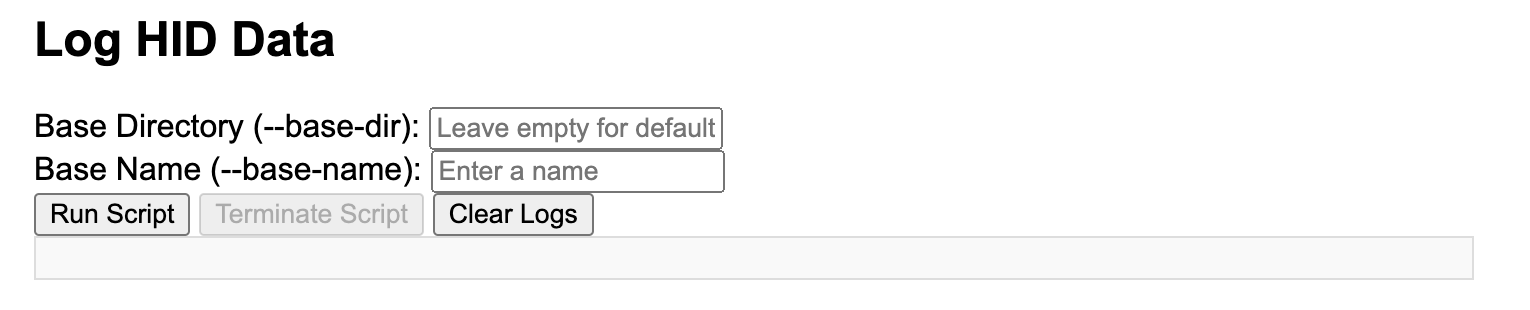
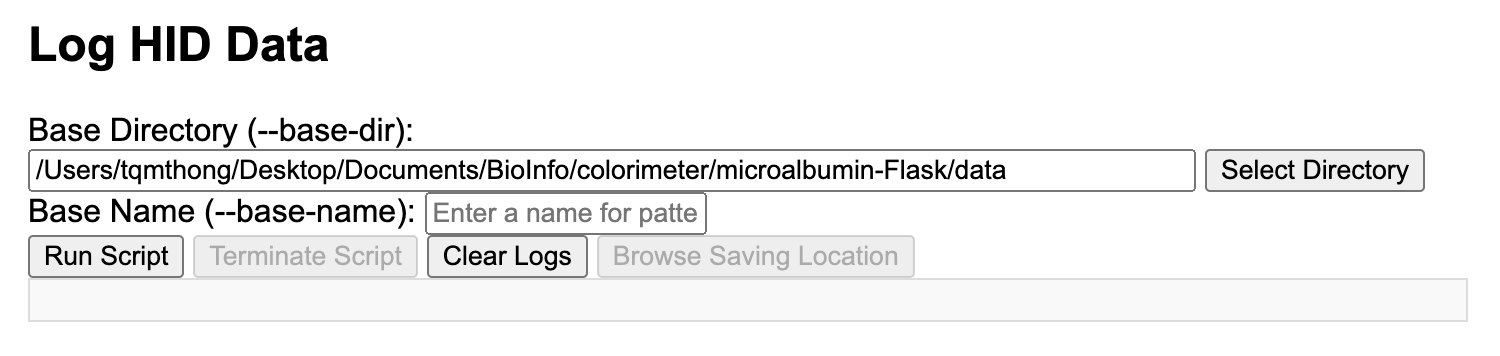
Update README

Changed region(s): [[0.0, 0.3194, 0.9813, 0.8129], [0.0, 0.0581, 0.2147, 0.2323]]

diff --git a/README.md b/README.md
@@ -9,17 +9,17 @@ This document provides instruction on deploying a web interface that helps visua
 
 ![](/images/browse.png)
 
-* **Display Range** Filter data by time range and unit (seconds, minutes, hours). Only latest `<time><unit>` data points will be displayed.
+* **Set measurement Modes** The Applicatiob has 3 modes: **kinetics**, **point**, **calibrate**
 
-![](/images/displayrange.png)
+* **Select type of Calibration** You can specify which calibration you're calculating for, either **kinetics** or **point**
 
-* **Log HID** Get data being sent from the **PyBadge** colorimeter. Specifiying location and file pattern name in `--base-dir` and `--base-name`. The logged file is saved at: `\log\script_logs.txt`
+* **Log HID** Get data being sent from the **PyBadge** colorimeter. Specifiying location and file pattern name in `--base-dir` and `--base-name`. The logged file is saved at: `\log\script_logs.txt`. Disabled in **calibrate** mode
 
 ![](/images/logHID.png)
 
-* **Window size** Specifies the number of data in a group to determine local slopes. Minimum is 3, maximum is half of data size in the browsing csv file.
+* **Standard lines** Choose standard line you'd like to derive concentration from measurements. Disabled in **calibrate** mode. You can read detailed description in each standard line json to understand the calculation methods.
 
-![](/images/window.png)
+![](/images/standardJSON.png)
 
 * **File Selection** When a directory with csv files is browsed, the list of selectable csv files are displayed under **File Selection** table. Currently, the feature only supports display data from **ONE** file at a time. Click **Select** to visualize the chosen csv, **Deselect** to turn the visualization off.
 
@@ -27,38 +27,82 @@ This document provides instruction on deploying a web interface that helps visua
 
 * **Data Display**:
 	- **Display Range** Modification in display range changes the displayed data and respective unit displayed on the plot. 
-	- **Split by Blanked** Seperate data points into 2 plots, *Blanked* and *Non-Blanked*, which is set by value of column ['Blanked'] in the browsed csv. [](/images/blank.png)
+	- **Split by Blanked** Seperate data points into 2 plots, *Blanked* and *Non-Blanked*, which is set by value of column ['Blanked'] in the browsed csv.
+
+	![](/images/blank.png)
+
 	- **Full Display** Enable, Disable graphics of ***Vmax***, ***Linear***, ***Sat*** lines. When it is checked and a csv file is being browsed, all data of that file will be shown and **Display Range** value should be disabled.
+	- In **kinetics** and **point**, displayed data should show Measurement values (i.e Absorbance agains Time) 
+
+	![](/images/meas.png)
+
+	- In **calibrate** mode, if selected calibration type is **kinetics**, you can select which of these quantity: Vmax (maximum reaction velocity throughout the process), Slope (average speed along reaction stage), Sat (Measured value at saturating point when no longer reactions happening), and Time to Saturation.
+
+	![](/images/calKinetics.png)
+
+	- In **calibrate** mode, if selected calibration type is **point**, you can select among timepoints, which are exported to the selected file earlier in the measuring stage for calibration. 
+
+	![](/images/calPoint.png)
+
+
+* **Display Range** Filter data by time range and unit (seconds, minutes, hours). Only latest `<time><unit>` data points will be displayed. Disabled in **calibrate** mode
+
+![](/images/displayrange.png)
+
+* **Window size** Specifies the number of data in a group to determine local slopes. Minimum is 3, maximum is half of data size in the browsing csv file. Disabled in **point**, **calibrate** mode
+
+![](/images/window.png)
+
+* **Export Analysis** 
+	- Become **Export coefficients for standard line** in **calibrate** mode
+	- For both **kinetics** and **point** modes:
+			+ Set **Display Unit** to **minutes** to ensure consistency among exported readings
+			+ When setting export of analysis for Blank Type **MIXED**, display graphic must be in non Split mode. In the opposite way, whenever Blank Type is either **BLANKED** or **NON-BLANKED**, Split mode is needed (also applied in **calibrate** mode)
+	- For **point** mode, key in the time point, the system will export with corresponding approximated measurement value at that time point for you. 
+	![](/images/exportA.png)
+
+	- For **calibrate** mode, you can specify the corresponding regression algorithm to export standard line with coefficients and plot on the chart. 
+	![](/images/exportC.png)
+
 
 ## Directory Structure
 ```
 microalbumin-Flask/
 ├── src/
-│   ├── file_path.py    # Manages directory navigation
-│   ├── file.py         # Handles file listing
-│   ├── measure.py      # Processes CSV data for plotting
-│   └── range.py        # Defines range input parameters
+│   ├── file_path.py    		# Manages directory navigation
+│   ├── file.py         		# Handles file listing
+│   ├── measure.py      		# Processes CSV data for plotting
+│   ├── mode.py      			# Includes measurement modes used in the project
+│   ├── quantity.py     		# Includes quantites for standard line regression
+│   └── range.py        		# Defines range input parameters
 ├── templates/
-│   └── index.html      # Frontend template with Chart.js integration
-├── main.py             # Flask app entry point
-├── log_hid_data.py     # Python script to log data read from the colorimeter from HID
-├── README.md           # Project documentation
-├── start.sh    		# Script to start the app in MacOS
-├── start.bat           # Script to start the app in Windows
-└── requirements.txt    # Depedencies needed to download
+│   └── index.html      		# Frontend template with Chart.js integration
+├── static/
+│   ├── script/  
+│   │	├── index.js 			# To be executed first, entry point of the script, defining AppState global variables 
+│   │	├── calculate.js 		# Functions handling numbers, calculations
+│   │	├── data-display.js 	# Functions responsible for data display: updatePlot, generateChart
+│   │	├── data-handling.js 	# Functions relating with selecting, exporting, fetching data
+│   │	├── hid-logging.js 		# Functions interacting with with Colorimeter's HID interface
+│   │	└── navigation.js 		# Functions responsible for browsing, updating correct states
+│	└── style.css 
+├── main.py             		# Flask app entry point
+├── log_hid_data.py     		# Python script to log data read from the colorimeter from HID
+├── README.md           		# Project documentation
+├── start.sh    				# Script to start the app in MacOS
+├── start.bat           		# Script to start the app in Windows
+└── requirements.txt    		# Depedencies needed to download
 ```
 
 
 ## Setup and Usage
 
-1. Install [Python 3.7.2](https://www.python.org/downloads/release/python-372/)
-
-2. Executing the scripts:
+Executing the scripts:
 * In Mac:
 	- Open the Directory in Terminal: Right-click > Services > New Terminal at Folder ![](/images/Terminal.png)
-	- Make the `start.sh` executable: `chmod +x start.sh` then run it `./start.sh`
+	- Make the `setup.command` executable: `chmod +x start.command` then run it by double clikcing. Enter your password when prompted
 * In Windows:
-	- Right click on `start.bat`, Select `Run as Administrator` ![](/images/RunBat.png)
+	- Right click on `startwindow.bat`, Select `Run as Administrator`. Enter your password when prompted.
 
 ## Notes
 
